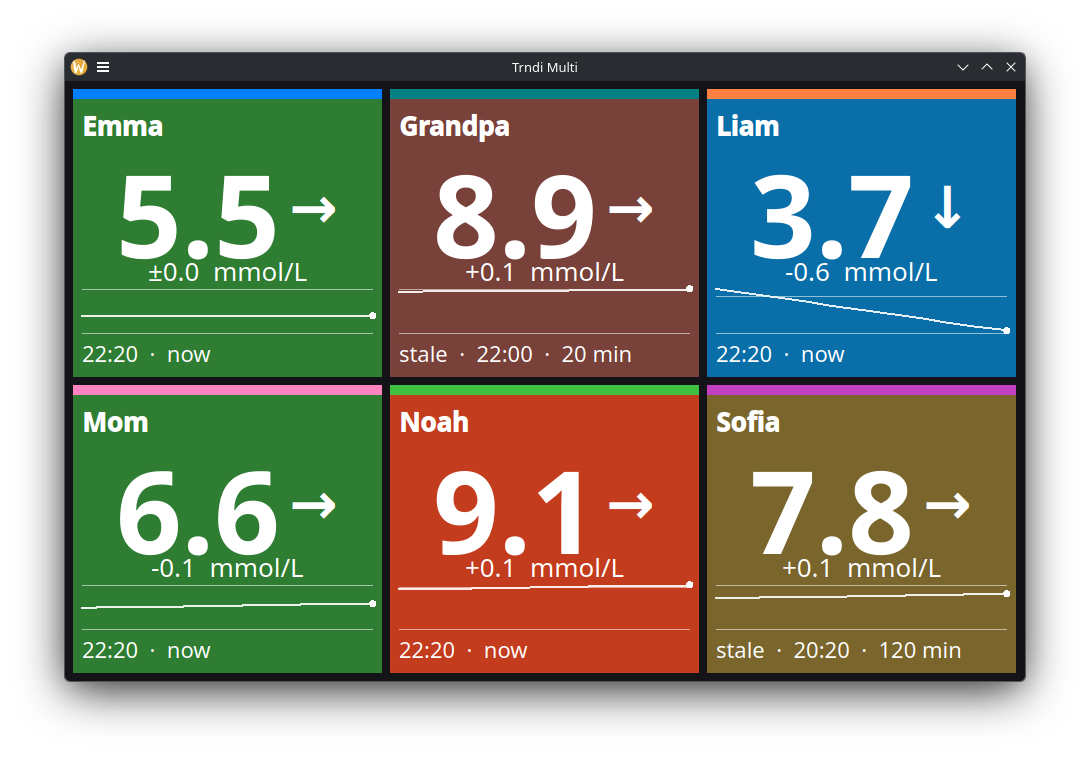
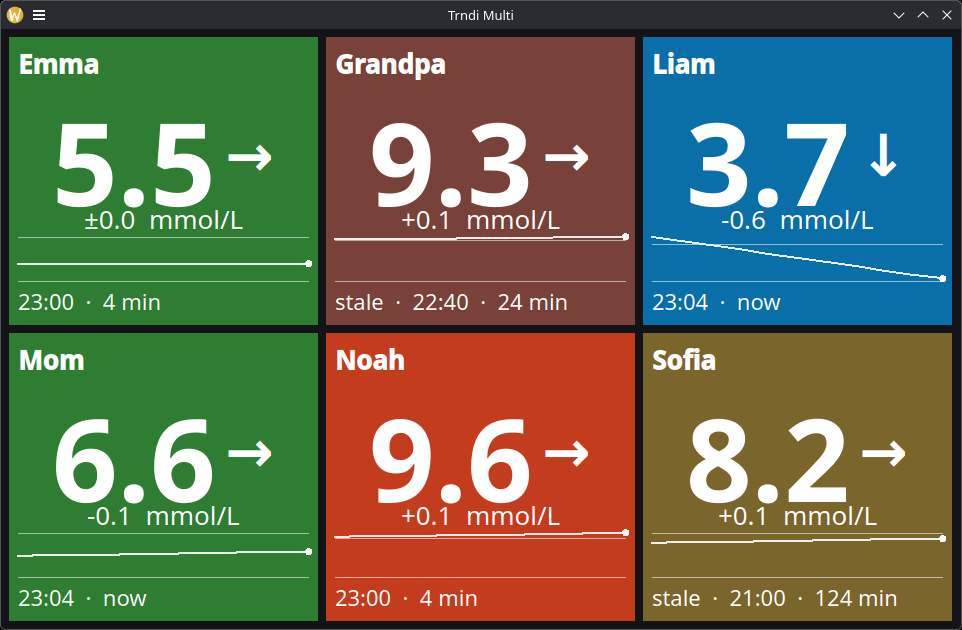
Skip accent coloring

diff --git a/README.md b/README.md
@@ -12,7 +12,7 @@ It is built on the very same API and settings layer as Trndi (vendored as a subm
 
 ## How it works
 
-- **Accounts come from Trndi.** Set them up in Trndi's settings window (the "Multi User" tab, see [Trndi's multi-user guide](https://github.com/slicke/trndi/blob/main/guides/Multiuser.md)). trndi-multi reads the same settings store and shows every account that has a backend configured, the default account first. Nicknames and account colours carry over: the colour becomes the stripe along the top of the tile. There is nothing to configure here; to add, rename or remove an account, use Trndi.
+- **Accounts come from Trndi.** Set them up in Trndi's settings window (the "Multi User" tab, see [Trndi's multi-user guide](https://github.com/slicke/trndi/blob/main/guides/Multiuser.md)). trndi-multi reads the same settings store and shows every account that has a backend configured, the default account first. Nicknames carry over as the tile titles. There is nothing to configure here; to add, rename or remove an account, use Trndi.
 - **One unit for the wall.** Accounts can use mmol/L and mg/dL side by side in Trndi. Here everything is shown in the first account's unit, so the wall reads as one thing.
 - **Each account polls on its own.** Every account is fetched on its own thread, one request per reporting interval, timed to land just after the next reading is due. A slow login on one account never holds up the others.
 - **Colours mean the same as in Trndi.** Green in range, red-orange above the high limit, red below the low one; where the account has a personal target band inside those limits, amber and blue for the room between. The thresholds are the account's own, applied exactly as Trndi applies them.
